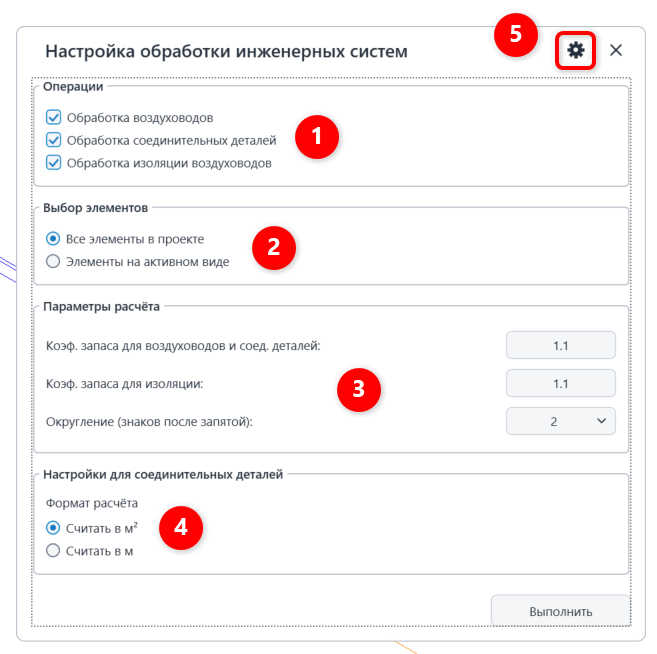
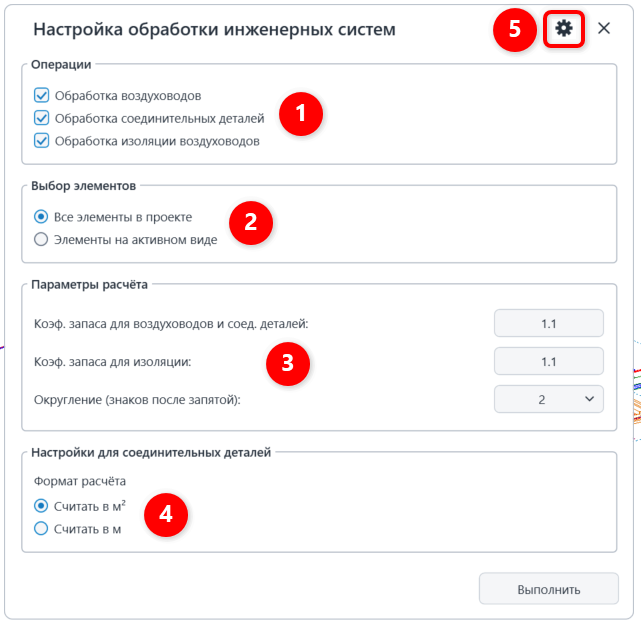
Обновлено файлов: 4
- BIM-instrykcii/plaginy/garda_vis/specifikacii-ov-vk/vozdukhovody-i-izolyaciya/_index.md
   - BIM-instrykcii/plaginy/garda_vis/specifikacii-ov-vk/vozdukhovody-i-izolyaciya/vozdukhovody-i-izolyaciya-3.webp
   - BIM-instrykcii/plaginy/garda_vis/specifikacii-ov-vk/vozdukhovody-i-izolyaciya/vozdukhovody-i-izolyaciya-6.webp
   - BIM-instrykcii/plaginy/garda_vis/specifikacii-ov-vk/vozdukhovody-i-izolyaciya/vozdukhovody-i-izolyaciya-7.webp

Changed region(s): [[0.0, 0.0, 1.0, 1.0]]

diff --git a/BIM-instrykcii/plaginy/garda_vis/specifikacii-ov-vk/vozdukhovody-i-izolyaciya/_index.md b/BIM-instrykcii/plaginy/garda_vis/specifikacii-ov-vk/vozdukhovody-i-izolyaciya/_index.md
@@ -24,7 +24,7 @@ aliases:
 
 Запустите плагин и выберите, что именно необходимо обрабатывать и с какими настройками:
 
-![](./vozdukhovody-i-izolyaciya-3.webp){width=657px height=654px scale=503px}
+![](./vozdukhovody-i-izolyaciya-3.webp){width=641px height=624px scale=462px}
 
 1. \- что именно необходимо обработать;
 2. \- обработать все элементы в проекте или только элементы на активном виде;
@@ -70,8 +70,6 @@ aliases:
      Данные настройки сохраняются под проект.
    </note>
 
-
-
 ## 3\. Отчет по обработке ошибок
 
 3\. Отчет по обработке ошибок
@@ -80,11 +78,10 @@ aliases:
 
 1. Все прошло успешно и плагин отработал все элементы:
 
-![](./vozdukhovody-i-izolyaciya-7.webp){width=1246px height=947px scale=515px}
-
+   ![](./vozdukhovody-i-izolyaciya-7.webp){width=829px height=633px scale=595px}
 2. Что-то пошло не так и плагин не смог обработать все элементы:
 
-![](./vozdukhovody-i-izolyaciya-6.webp){width=1248px height=949px scale=595px}
+   ![](./vozdukhovody-i-izolyaciya-6.webp){width=834px height=630px scale=602px}
 
 Возможные причины:
 
@@ -98,16 +95,6 @@ aliases:
     <td align="center">Инженер просит коллегу синхронизироваться и повторно запускает плагин.</td>
   </tr>
   <tr><td align="center">У элемента недоступен параметр для записи.</td><td align="center">BIM-Координатор</td></tr>
-  <tr>
-    <td>
-      Проверьте тип изоляции для диаметра выше 150 мм:
-
-      • диаметр 200.0 мм -- требуется Маты или Рулон\
-      \
-      Для труб диаметров выше 150 должна быть назначена изоляция содержащая в параметре «Комментарии к типоразмеру» Маты или Рулон. Данная изоляция считается в м2
-    </td>
-    <td>Инженер создает отдельный тип изоляции для таких элементов.</td>
-  </tr>
 </table>
 
 ## 4\. Логика расчета и заполнения параметров
